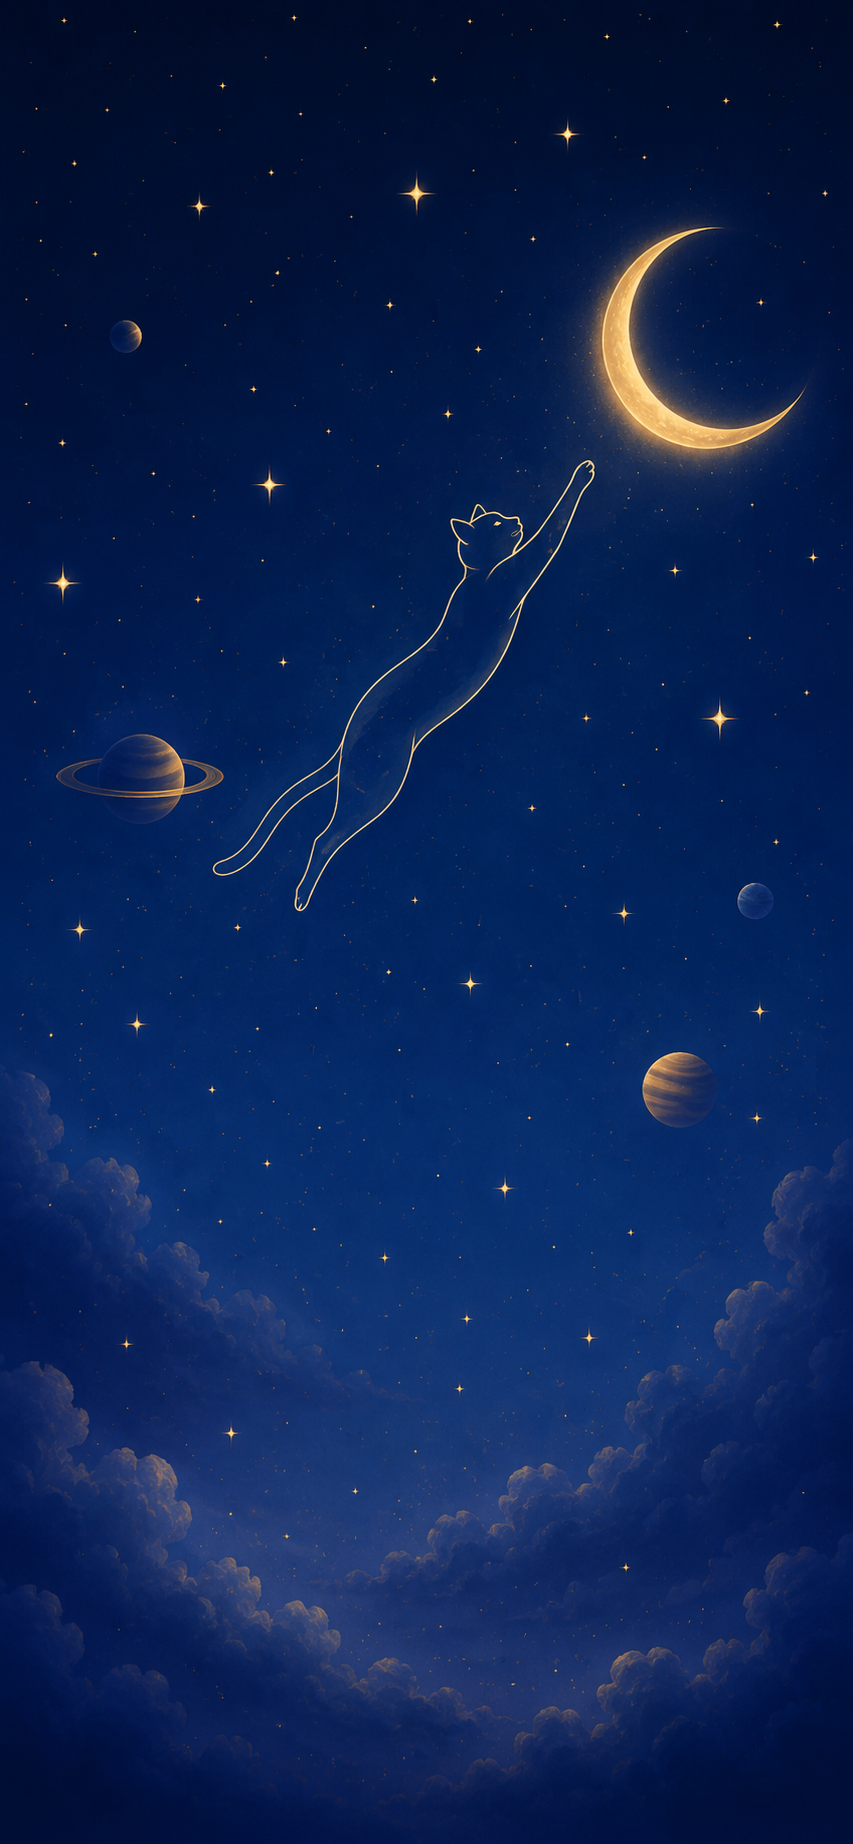
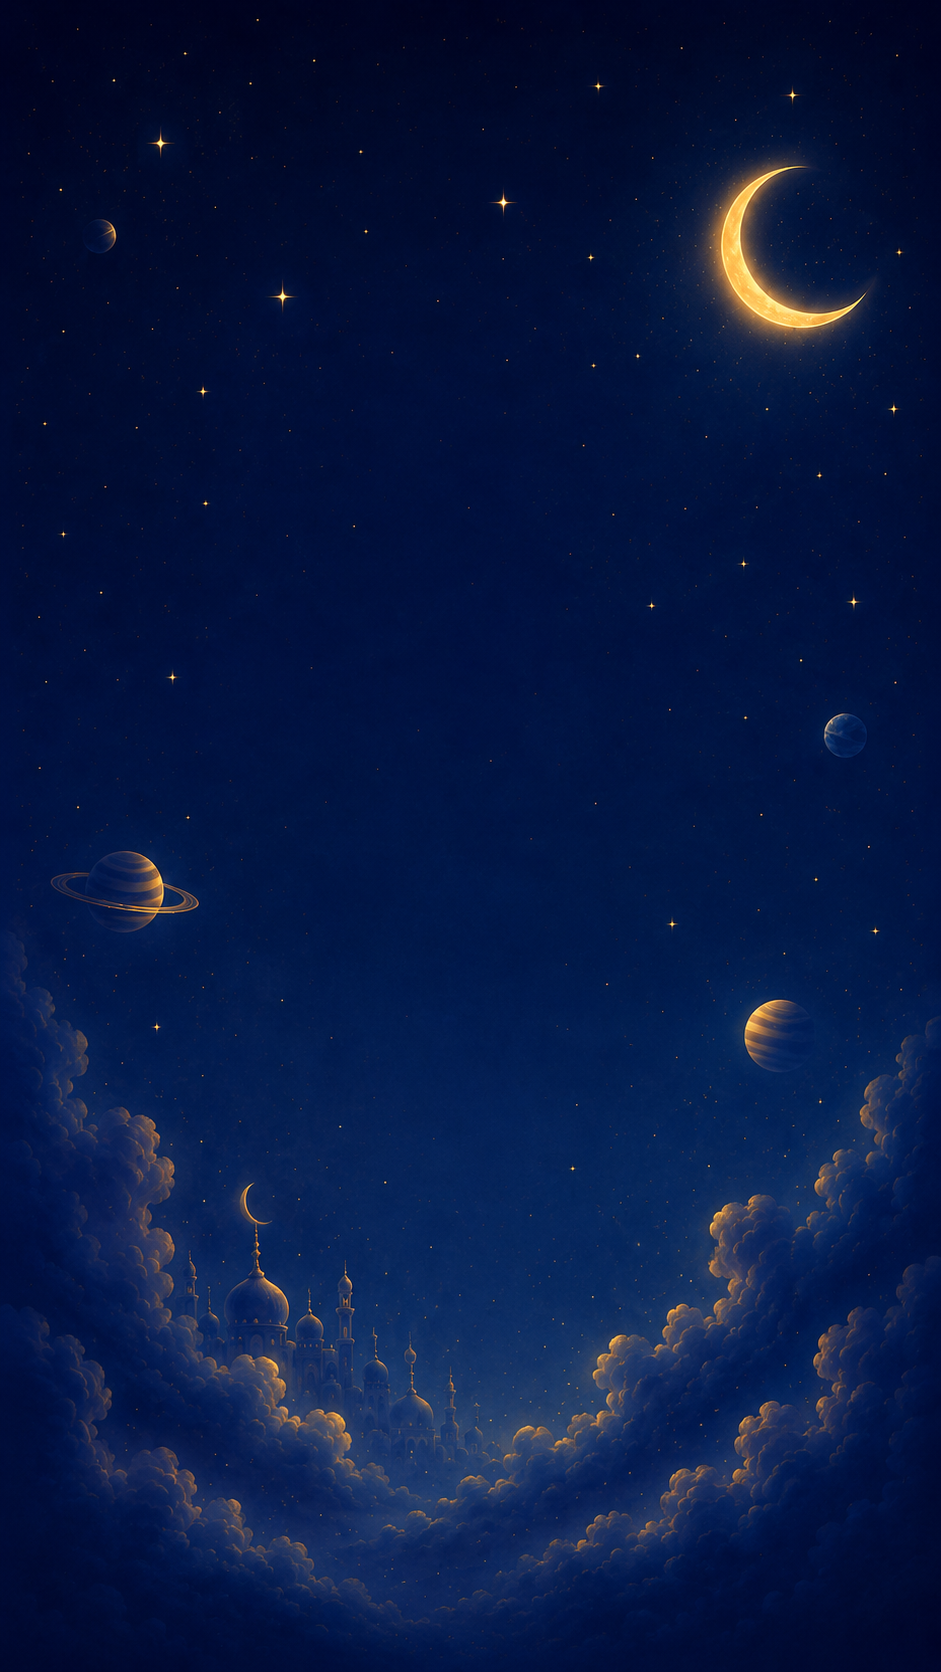
Position cat overlay above card

diff --git a/style.css b/style.css
@@ -16,15 +16,15 @@ body {
     overflow: hidden;
     font-family: system-ui, -apple-system, BlinkMacSystemFont, "Segoe UI", sans-serif;
     background-image:
-        linear-gradient(rgba(3, 12, 32, 0.18), rgba(3, 12, 32, 0.35)),
-        url("assets/cat-image.png");
+        linear-gradient(rgba(3, 12, 32, 0.08), rgba(3, 12, 32, 0.20)),
+        url("assets/background.png");
     background-size: cover;
     background-position: center top;
     background-repeat: no-repeat;
     color: white;
 }
 
-/* Hide old hard-coded moon/star/cat decorations */
+/* Hide old hard-coded decorations if they still exist in index.html */
 .background-decor {
     display: none;
 }
@@ -40,6 +40,7 @@ body {
     padding: max(24px, env(safe-area-inset-top)) 22px max(28px, env(safe-area-inset-bottom));
 }
 
+/* Title */
 h1 {
     text-align: center;
     margin: 0 0 26px;
@@ -48,8 +49,23 @@ h1 {
     letter-spacing: -0.04em;
     color: #f8fbff;
     text-shadow: 0 4px 18px rgba(0, 0, 0, 0.35);
+    position: relative;
+    z-index: 4;
 }
 
+/* Cat overlay: separate transparent PNG above the card */
+.cat-overlay {
+    position: absolute;
+    top: 120px;
+    right: 110px;
+    width: 155px;
+    height: auto;
+    z-index: 3;
+    pointer-events: none;
+    filter: drop-shadow(0 0 10px rgba(255, 214, 120, 0.18));
+}
+
+/* Card */
 .card {
     width: 100%;
     max-width: 430px;
@@ -65,7 +81,7 @@ h1 {
         0 24px 60px rgba(0, 0, 0, 0.28),
         inset 0 1px 0 rgba(255, 255, 255, 0.10);
     position: relative;
-    z-index: 1;
+    z-index: 2;
 }
 
 .label {
@@ -180,18 +196,29 @@ button {
 }
 
 /* Small iPhone screens */
-@media (max-width: 380px) {
-    h1 {
-        font-size: 30px;
+@media (max-width: 430px) {
+    .app {
+        padding: max(20px, env(safe-area-inset-top)) 18px max(24px, env(safe-area-inset-bottom));
     }
 
-    h2 {
-        font-size: 26px;
+    h1 {
+        font-size: 30px;
+        margin-bottom: 22px;
+    }
+
+    .cat-overlay {
+        top: 108px;
+        right: 38px;
+        width: 125px;
     }
 
     .card {
         padding: 26px 20px 20px;
         border-radius: 30px;
+    }
+
+    h2 {
+        font-size: 26px;
     }
 
     .counter {

diff --git a/index.html b/index.html
@@ -7,7 +7,7 @@
 
     <title>Zikirmatik</title>
 
-    <link rel="stylesheet" href="style.css?v=14" />
+    <link rel="stylesheet" href="style.css?v=15" />
 
     <link rel="manifest" href="manifest.webmanifest" />
     <meta name="theme-color" content="#0b2248" />
@@ -57,21 +57,30 @@
         </svg>
     </div> -->
 
+    
     <main class="app">
         <h1>Zikirmatik</h1>
-
+    
+        <img src="assets/cat-overlay.png" alt="" class="cat-overlay" />
+    
         <section class="card">
             <p class="label">Current zikir</p>
             <h2 id="dhikrName">SubhanAllah</h2>
-
+    
             <div class="counter">
                 <span id="count">0</span>
                 <span class="target">/ <span id="target">33</span></span>
             </div>
-
+    
             <button id="countButton" class="main-button" aria-label="Count one zikir">
                 <span class="power-symbol">⏻</span>
             </button>
+    
+            <div class="actions">
+                <button id="resetButton">Reset</button>
+            </div>
+        </section>
+    </main>
 
             <div class="actions">
                 <button id="resetButton">Reset</button>
@@ -79,7 +88,7 @@
         </section>
     </main>
 
-    <script src="app.js?v=14"></script>
+    <script src="app.js?v=15"></script>
 </body>
 
 </html>